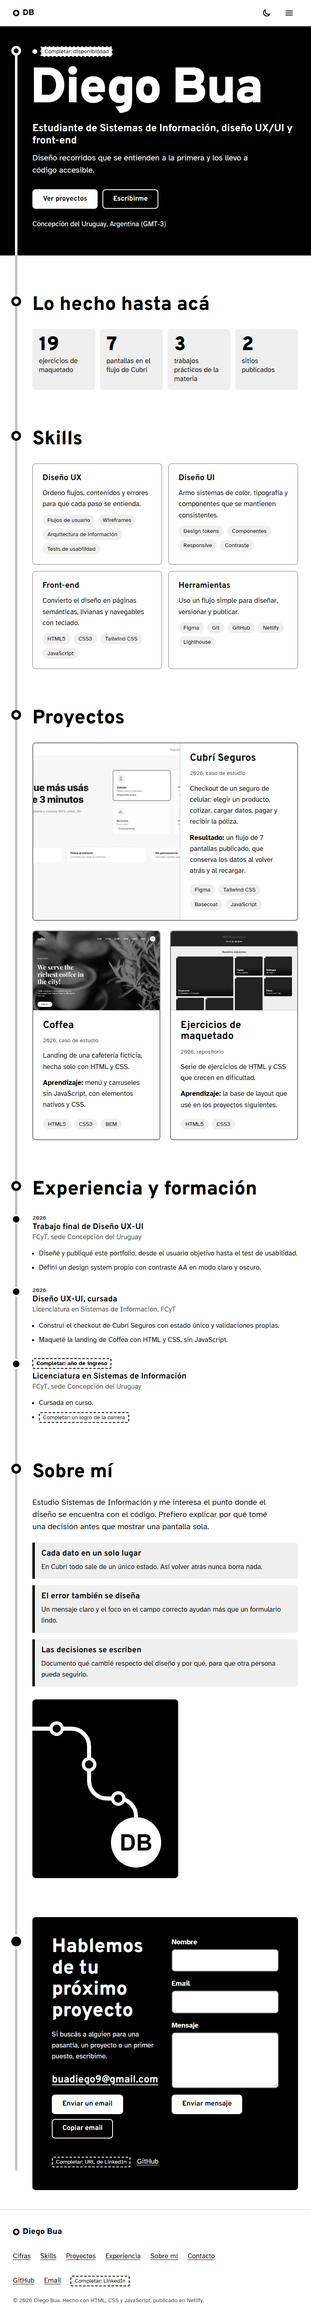
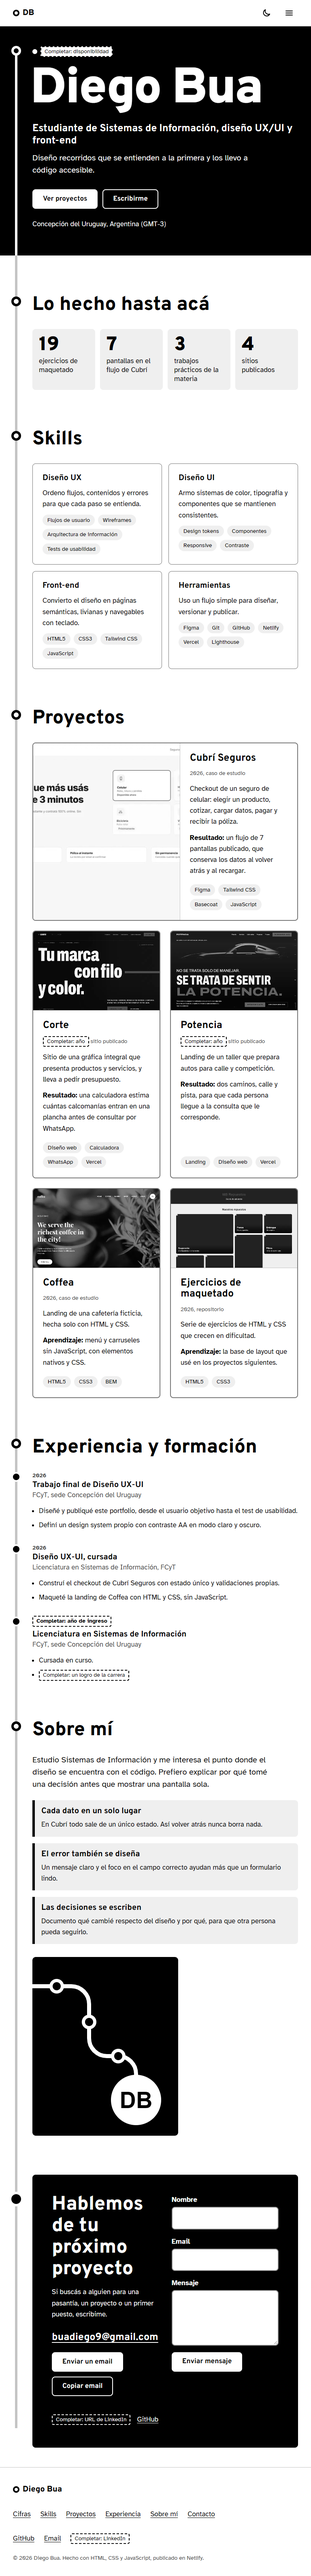
TP Final: proyectos Corte y Potencia en la grilla

diff --git a/TP-Final/portfolio/index.html b/TP-Final/portfolio/index.html
@@ -77,7 +77,7 @@
           <li class="metric"><span class="metric__number">19</span> ejercicios de maquetado</li>
           <li class="metric"><span class="metric__number">7</span> pantallas en el flujo de Cubrí</li>
           <li class="metric"><span class="metric__number">3</span> trabajos prácticos de la materia</li>
-          <li class="metric"><span class="metric__number">2</span> sitios publicados</li>
+          <li class="metric"><span class="metric__number">4</span> sitios publicados</li>
         </ul>
       </section>
 
@@ -109,7 +109,7 @@
             <h3>Herramientas</h3>
             <p>Uso un flujo simple para diseñar, versionar y publicar.</p>
             <ul class="tags">
-              <li>Figma</li><li>Git</li><li>GitHub</li><li>Netlify</li><li>Lighthouse</li>
+              <li>Figma</li><li>Git</li><li>GitHub</li><li>Netlify</li><li>Vercel</li><li>Lighthouse</li>
             </ul>
           </article>
         </div>
@@ -126,6 +126,26 @@
               <p>Checkout de un seguro de celular: elegir un producto, cotizar, cargar datos, pagar y recibir la póliza.</p>
               <p><strong>Resultado:</strong> un flujo de 7 pantallas publicado, que conserva los datos al volver atrás y al recargar.</p>
               <ul class="tags"><li>Figma</li><li>Tailwind CSS</li><li>Basecoat</li><li>JavaScript</li></ul>
+            </div>
+          </article>
+          <article class="project">
+            <img class="project__image" src="assets/img/corte-inicio-800.webp" srcset="assets/img/corte-inicio-800.webp 800w, assets/img/corte-inicio-1200.webp 1200w" sizes="(min-width: 1280px) 540px, (min-width: 768px) 45vw, 90vw" width="800" height="500" loading="lazy" alt="Hero del sitio de Corte con el título Tu marca con filo y color.">
+            <div class="project__body">
+              <h3><a class="project__link" href="https://grafica-psi.vercel.app/" target="_blank" rel="noopener noreferrer">Corte</a></h3>
+              <p class="project__year"><span class="todo">Completar: año</span> sitio publicado</p>
+              <p>Sitio de una gráfica integral que presenta productos y servicios, y lleva a pedir presupuesto.</p>
+              <p><strong>Resultado:</strong> una calculadora estima cuántas calcomanías entran en una plancha antes de consultar por WhatsApp.</p>
+              <ul class="tags"><li>Diseño web</li><li>Calculadora</li><li>WhatsApp</li><li>Vercel</li></ul>
+            </div>
+          </article>
+          <article class="project">
+            <img class="project__image" src="assets/img/potencia-inicio-800.webp" srcset="assets/img/potencia-inicio-800.webp 800w, assets/img/potencia-inicio-1200.webp 1200w" sizes="(min-width: 1280px) 540px, (min-width: 768px) 45vw, 90vw" width="800" height="500" loading="lazy" alt="Hero de Potencia con la silueta de un auto deportivo.">
+            <div class="project__body">
+              <h3><a class="project__link" href="https://landing-potencia.vercel.app/" target="_blank" rel="noopener noreferrer">Potencia</a></h3>
+              <p class="project__year"><span class="todo">Completar: año</span> sitio publicado</p>
+              <p>Landing de un taller que prepara autos para calle y competición.</p>
+              <p><strong>Resultado:</strong> dos caminos, calle y pista, para que cada persona llegue a la consulta que le corresponde.</p>
+              <ul class="tags"><li>Landing</li><li>Diseño web</li><li>Vercel</li></ul>
             </div>
           </article>
           <article class="project">

diff --git a/TP-Final/portfolio/README.md b/TP-Final/portfolio/README.md
@@ -20,6 +20,7 @@ grep -rn "Completar:" --include=*.html .
 - [ ] Disponibilidad en el hero.
 - [ ] URL de LinkedIn en contacto y footer.
 - [ ] Año de ingreso y un logro de la carrera en la timeline.
+- [ ] Año, stack y rol en las tarjetas de Corte y Potencia.
 - [ ] Revisar los textos de "Sobre mí" y la ubicación, escritos a partir de los TP y de la sede de la consigna.
 - [ ] Reemplazar la ilustración por una foto si preferís una foto real.
 - [ ] Crear el archivo de Figma a partir de `docs/`: research, wireframes, design system y prototipo mobile y desktop.
@@ -104,7 +105,7 @@ El formulario de Netlify solo se puede probar una vez publicado.
 
 - Sin templates: el diseño y el código son propios de este trabajo.
 - Fuentes: [Overpass](https://fonts.google.com/specimen/Overpass) y [Atkinson Hyperlegible](https://fonts.google.com/specimen/Atkinson+Hyperlegible), licencia OFL, instaladas desde Fontsource.
-- Imágenes: capturas propias de TP3, TP4 y TP5.
+- Imágenes: capturas de TP3, TP4, TP5 y de los sitios publicados de Corte y Potencia.
 
 ## Uso de IA
 

diff --git a/TP-Final/portfolio/docs/proceso/02-concepto-y-arquitectura.md b/TP-Final/portfolio/docs/proceso/02-concepto-y-arquitectura.md
@@ -53,7 +53,7 @@ Ejercicio cerrado, hecho por el autor con el contenido propio. Es una organizaci
 | --- | --- |
 | Quién soy | Nombre, rol, ubicación, disponibilidad, presentación, retrato |
 | Qué sé hacer | Diseño UX, UI, front-end, herramientas |
-| Qué hice | Cubrí Seguros, Coffea, ejercicios de maquetado, cifras |
+| Qué hice | Cubrí Seguros, Corte, Potencia, Coffea, ejercicios de maquetado, cifras |
 | De dónde vengo | Carrera, materia, trabajo final |
 | Cómo trabajo | Principios |
 | Cómo hablarme | Email, LinkedIn, GitHub, formulario |
